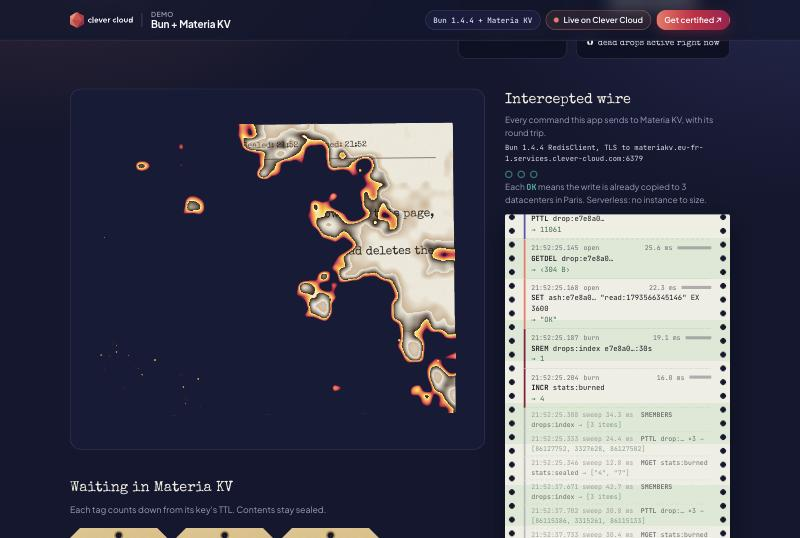
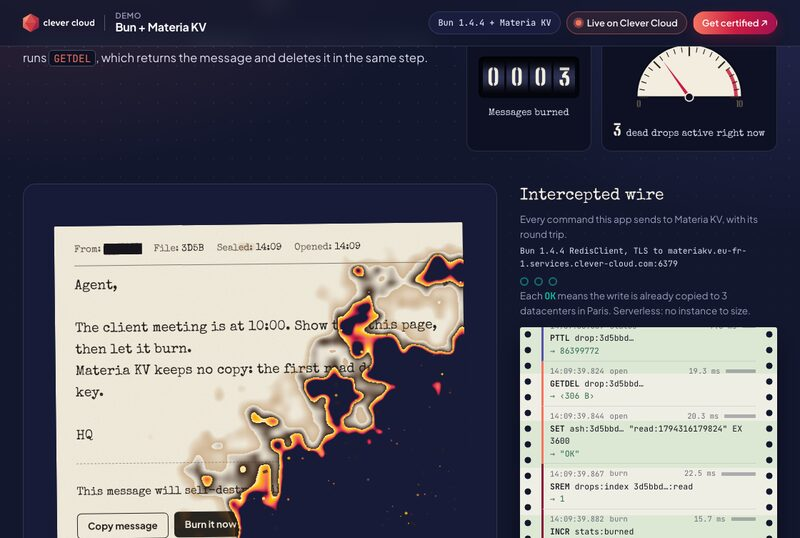
Tour and screenshots recorded live on Clever Cloud, hosted demo retired

diff --git a/README.md b/README.md
@@ -2,7 +2,7 @@
 
 > A spy dead drop for one-time messages. Write a note, light a fuse, hand over the link. The note waits in **Materia KV** with a TTL; the first person who opens it runs `GETDEL`, reads it once on a typewriter, and watches it burn. A second visit finds only ash. A line-printer "intercepted wire" prints every command the app sends to Materia KV, with its real round trip.
 
-![Dead drop, run locally against a local Redis in place of Materia KV: a dossier is sealed, opened once with GETDEL, typed out, then burned while the wire log prints each command](docs/tour.gif)
+![Dead drop, live on Clever Cloud with its Materia KV add-on: a dossier is sealed, opened once with GETDEL, typed out, then burned while the wire log prints each command](docs/tour.gif)
 
 ![The message burns after reading, while the wire log shows GETDEL, SREM and INCR](docs/screenshot-burn.jpg)
 
